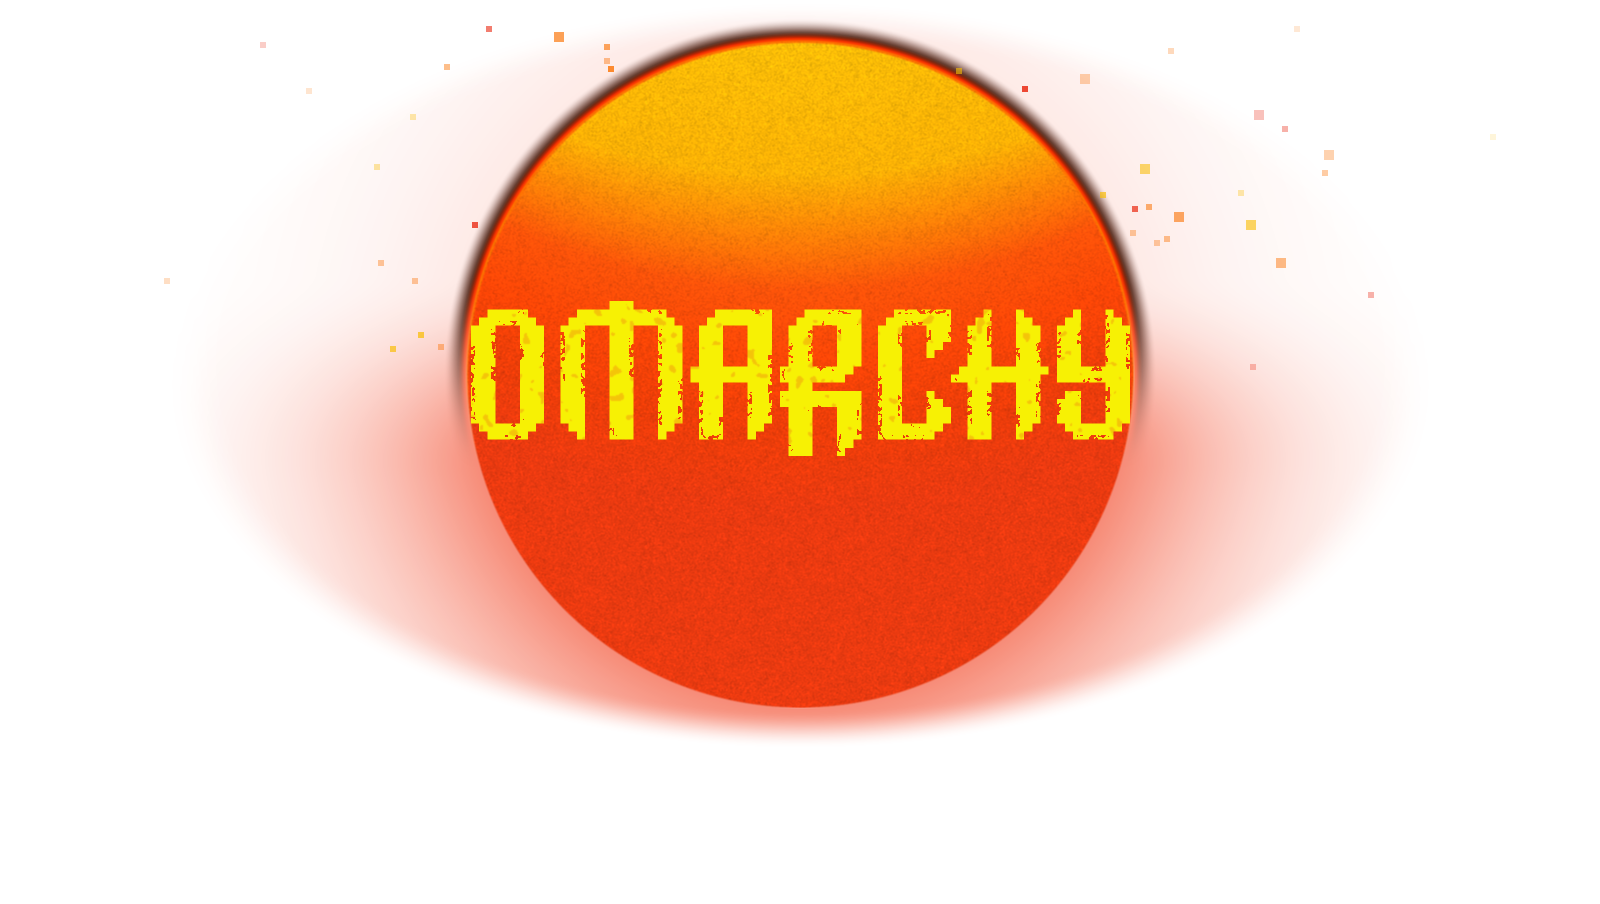
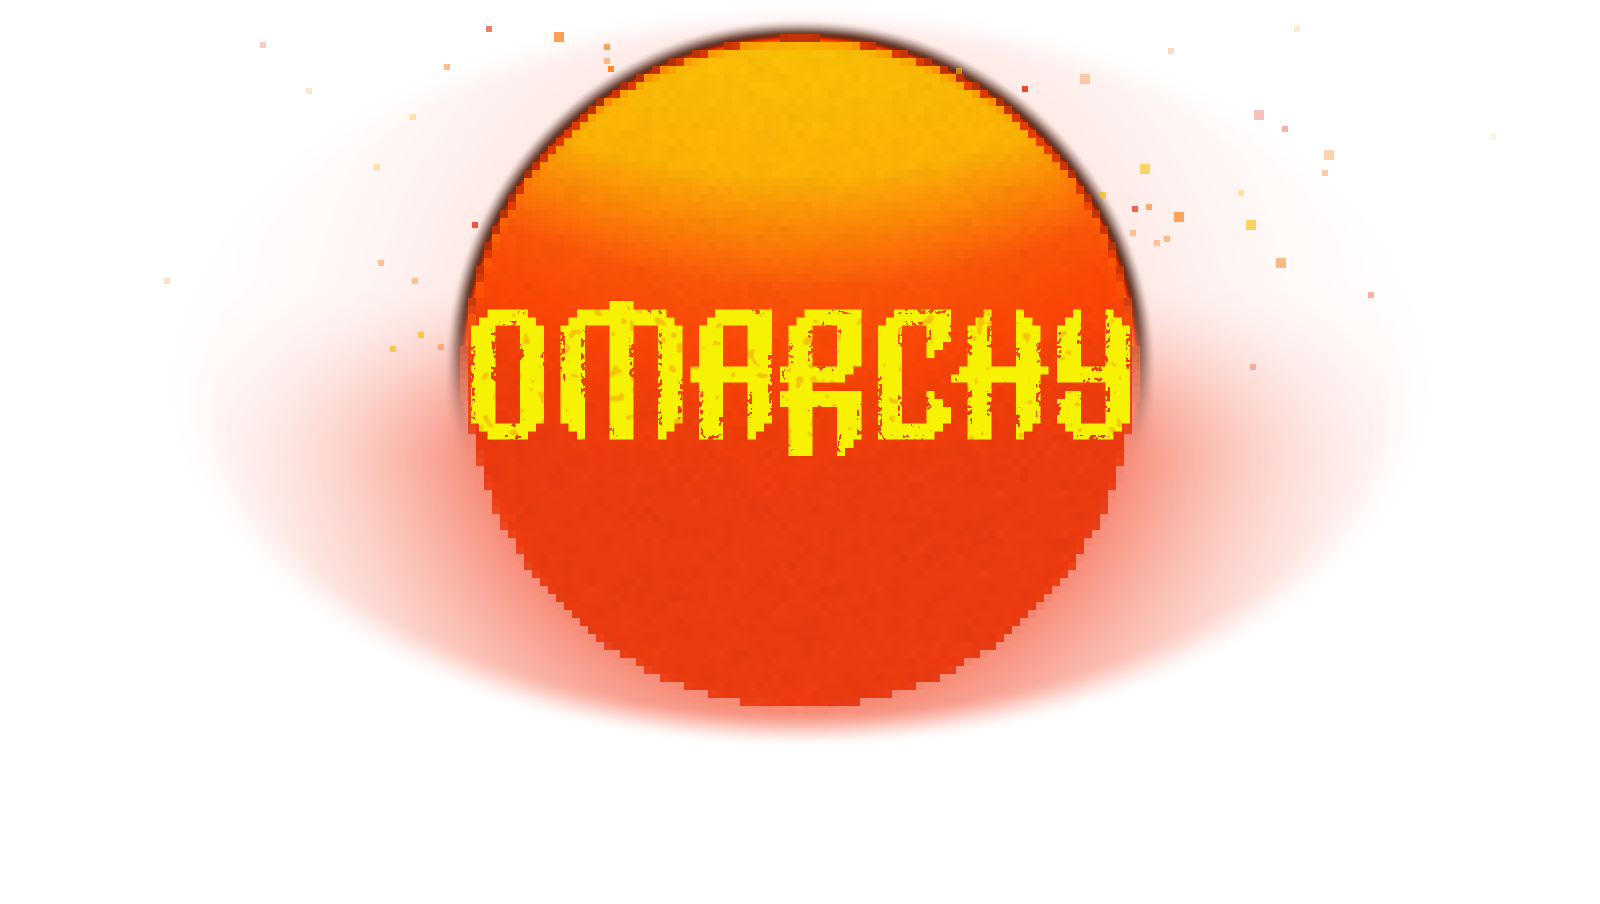
Draw the sun unlock screen's sun as pixel art
The disc is now square blocks the size of the wordmark's pixels, on a grid
centred on the sun, each the average colour of the smooth sun under it.
The blocks the circle cuts take the colour of the rim and glow outside it,
so the edge steps like an ASCII circle. The glow and embers are unchanged,
and the sun keeps the wallpaper's place and size. sun-unlock.py takes
--pixel N for this; without it the disc is smooth, which is what
verify-sun.py checks. The README describes the new screen.

diff --git a/tools/sun-unlock.py b/tools/sun-unlock.py
@@ -30,6 +30,8 @@ ap.add_argument('--layer', help='4K sun layer from make-wallpaper.sh --sun-layer
 ap.add_argument('--word', help='the title PNG; omitted = the sun alone')
 ap.add_argument('--word-dy', type=float, help='title centre, px below the sun centre; default 0: centred on the sun. (On the poster the title sits 0.13 radii low, because it is part of a text block that is itself centred.)')
 ap.add_argument('--embers', type=int, default=40, help='sparks in the glow around the sun')
+ap.add_argument('--pixel', type=int, default=0, help='draw the disc as square blocks this many px a side, like ASCII art (match the '
+                                                     "wordmark's pixels); 0, the default, keeps the wallpaper's smooth disc")
 ap.add_argument('--fade', default='ellipse', choices=['rect', 'radial', 'ellipse'], help='how the halo fades out before the canvas ends')
 ap.add_argument('--ellipse-x', type=float, default=640, help='ellipse fade: horizontal reach from the sun centre, px')
 ap.add_argument('--out', required=True)
@@ -83,6 +85,58 @@ m('-size', f'{CW}x{CH}', 'xc:black', '-fx', expr, w('fade.png'))
 m(w('canvas.png'), '-alpha', 'extract', w('alpha.png'))
 m(w('alpha.png'), w('fade.png'), '-compose', 'Multiply', '-composite', w('alpha2.png'))
 m(w('canvas.png'), w('alpha2.png'), '-alpha', 'off', '-compose', 'CopyOpacity', '-composite', w('logo0.png'))
+
+# 3b. pixel sun: the disc as square blocks on a grid centred on the sun, each the average colour of the smooth sun under it. A
+# block whose centre is inside the circle is disc; the blocks round it that the circle cuts take the average of what is outside
+# the circle in them (the rim and the glow), so the edge steps like an ASCII circle. Everything further out is left smooth.
+def pixelate(path, cell):
+    span = int(sun_r + 2 * cell) + 1
+    bx0, by0 = max(0, int(sun_x) - span), max(0, int(sun_y) - span)
+    bx1, by1 = min(CW, int(sun_x) + span), min(CH, int(sun_y) + span)
+    bw, bh = bx1 - bx0, by1 - by0
+    raw = bytearray(subprocess.run(['magick', path, '-crop', f'{bw}x{bh}+{bx0}+{by0}', '+repage', '-depth', '8', 'rgba:-'],
+                                   capture_output=True, check=True).stdout)
+    ox, oy = sun_x - cell / 2, sun_y - cell / 2                # a block is centred on the sun's centre
+    r2 = sun_r * sun_r
+    cells = {}                                                 # (i, j) -> [in r,g,b,a,n, out r*a,g*a,b*a,a,n]
+    for py in range(bh):
+        y = by0 + py + 0.5
+        j = math.floor((y - oy) / cell)
+        dy2 = (y - sun_y) ** 2
+        row = py * bw * 4
+        for px in range(bw):
+            x = bx0 + px + 0.5
+            k = row + px * 4
+            acc = cells.setdefault((math.floor((x - ox) / cell), j), [0] * 10)
+            r, g, b, al = raw[k], raw[k + 1], raw[k + 2], raw[k + 3]
+            if (x - sun_x) ** 2 + dy2 <= r2:
+                acc[0] += r; acc[1] += g; acc[2] += b; acc[3] += al; acc[4] += 1
+            else:
+                acc[5] += r * al; acc[6] += g * al; acc[7] += b * al; acc[8] += al; acc[9] += 1
+    colour = {}
+    for (i, j), acc in cells.items():
+        if not acc[4]:
+            continue                                           # the circle does not reach this block: leave it smooth
+        cx, cy = ox + (i + 0.5) * cell, oy + (j + 0.5) * cell
+        if (cx - sun_x) ** 2 + (cy - sun_y) ** 2 <= r2 or not acc[8]:
+            n = acc[4]
+            colour[i, j] = (round(acc[0] / n), round(acc[1] / n), round(acc[2] / n), round(acc[3] / n))
+        else:
+            a_ = acc[8]
+            colour[i, j] = (round(acc[5] / a_), round(acc[6] / a_), round(acc[7] / a_), round(a_ / acc[9]))
+    for py in range(bh):
+        j = math.floor((by0 + py + 0.5 - oy) / cell)
+        row = py * bw * 4
+        for px in range(bw):
+            c = colour.get((math.floor((bx0 + px + 0.5 - ox) / cell), j))
+            if c:
+                raw[row + px * 4:row + px * 4 + 4] = bytes(c)
+    open(w('pix.rgba'), 'wb').write(raw)
+    m(path, '(', '-size', f'{bw}x{bh}', '-depth', '8', f'rgba:{w("pix.rgba")}', ')', '-geometry', f'+{bx0}+{by0}',
+      '-compose', 'Copy', '-composite', path)
+
+if a.pixel:
+    pixelate(w('logo0.png'), a.pixel)
 
 cmd = [w('logo0.png')]
 word_box = None

diff --git a/README.md b/README.md
@@ -32,7 +32,7 @@ has a source, so the palette holds together.
 - **A warm glow** around the focused window*
 - A complete custom **Neovim** theme using the theme's own colorscheme, [sinners.nvim](https://github.com/TRemigi/sinners.nvim)*
 - **Four disk-unlock screens** to choose from: the sun-gold wordmark, rising embers, glowing red eyes, or the wallpaper's sun
-  behind a Sinners-style title
+  as pixel art behind the Omarchy wordmark in the poster's neon lettering
 
 \* Omarchy leaves these out of themes installed from GitHub, so they come as the `glow` and `neovim` extras. See
 [Quick start](#quick-start).
@@ -245,8 +245,8 @@ you don't need the extras.
 The second command opens a picker with all four unlock screens. After the first command, the picker is also in the Omarchy menu
 under **Appearance > Sinners Unlock**. Applying a screen asks for your password, because it changes the boot screen.
 
-The **sinners-sun** screen lines its sun up exactly with the wallpaper's sun, so the sun stays in place when the desktop
-appears. That only works at one screen size, which is 1920x1200 by default. For a different screen, rebuild it at your size:
+The **sinners-sun** screen draws its sun in the same place and at the same size as the wallpaper's sun, so the sun stays in
+place when the desktop appears, and goes from pixel art to smooth. That only works at one screen size, which is 1920x1200 by default. For a different screen, rebuild it at your size:
 
     tools/make-unlock-sun.sh 2560x1600
 
